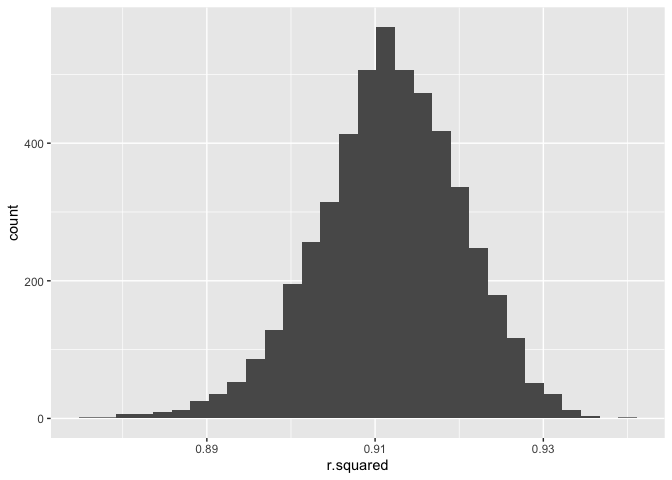
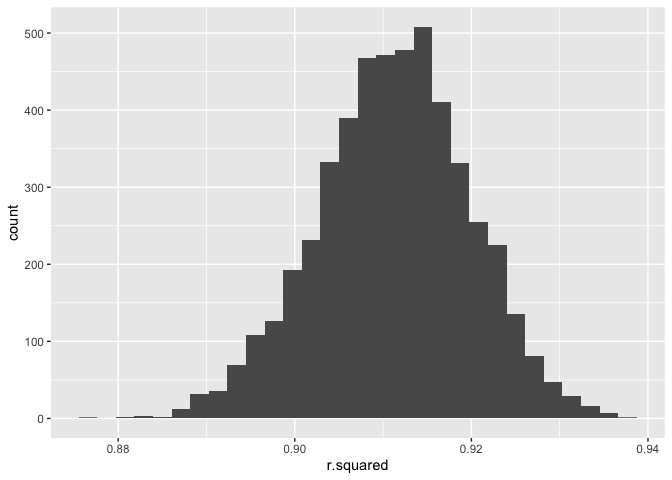
added descriptions for problem 2, named code chunks, and overall final touches

diff --git a/p8105_hw6_lzs2109.md b/p8105_hw6_lzs2109.md
@@ -42,7 +42,7 @@ bweight_df =
 
 ``` r
 map(bweight_df, ~sum(is.na(.))) %>% 
-  as.data.frame() 
+  as.data.frame()
 ```
 
     ##   babysex bhead blength bwt delwt fincome frace gaweeks malform menarche
@@ -50,37 +50,40 @@ map(bweight_df, ~sum(is.na(.))) %>%
     ##   mheight momage mrace parity pnumlbw pnumsga ppbmi ppwt smoken wtgain
     ## 1       0      0     0      0       0       0     0    0      0      0
 
-There appear to be no missing values in the birth weight data set.
-$\\\\$ A possible regression model for birth weight may involve genetic
-factors attributable to the parents as indirect predictors of weight
-instead of direct predictors like the baby’s features (sex, length, head
-circumference, etc). As such, I’ll propose a model that uses the
-predictors delwt (mother’s weight at delivery), malform (presence of
-malformations that could affect weight), ppwt (mother’s pre-pregnancy
-weight), and ppbmi (mother’s pre-pregnancy BMI). Mother’s height might
-be useful to include, but we’ll stick with 4 predictors and try to
-maintain some parsimony. If father’s weight was available, that would
-probably be more interesting than, for example, mother’s BMI to explore.
+There appear to be no missing values in the birth weight data set. A
+possible regression model for birth weight may involve genetic factors
+attributable to the parents as indirect predictors of weight instead of
+direct predictors like the baby’s features (sex, length, head
+circumference, etc). As such, we’ll propose a model that uses the
+variables delwt (mother’s weight at delivery), mheight (the mother’s
+height), ppwt (mother’s pre-pregnancy weight), and ppbmi (mother’s
+pre-pregnancy BMI). If father’s weight, height, or BMI were available,
+they would probably be interesting variables to include as well. This
+proposed model is based solely on hypothesized underlying factors, and
+we’ll use some data-driven info later to see how it could possibly be
+improved.
 
 ``` r
-my_model = 
-  lm(bwt ~ delwt + malform + ppwt + ppbmi, data = bweight_df)
+proposed_model = 
+  lm(bwt ~ delwt + mheight + ppbmi + ppwt, data = bweight_df)
 
 bweight_df %>% 
-  add_residuals(my_model) %>% 
-  add_predictions(my_model) %>%
-  ggplot(aes(x = pred, y= resid)) + 
+  add_residuals(proposed_model) %>% 
+  add_predictions(proposed_model) %>%
+  ggplot(aes(x = pred, y = resid)) + 
     geom_point() + 
     labs(x = "Fitted Values", y = "Residuals")
 ```
 
-![](p8105_hw6_lzs2109_files/figure-gfm/unnamed-chunk-4-1.png)<!-- -->
+![](p8105_hw6_lzs2109_files/figure-gfm/proposed%20model-1.png)<!-- -->
 
 The fitted values versus residuals plot is already showing some
-questionable trends in my proposed model, with the residuals not being
-evenly distributed around 0. We can see that on the positive side the
-residuals top out around just above 1500, but approach 2500 on the
-negative end.
+problematic trends in our proposed model, with the residuals not being
+completely evenly distributed around 0. We can see that on the positive
+side the residuals top out around just above +1500, but approach -2500
+on the negative end. Although they are roughly evenly distributed, there
+are a noticeable amount of points below -1500 for the residuals, with no
+such points above +1500, save for one.
 
 ``` r
 lm(bwt ~ blength + gaweeks, data = bweight_df) %>% 
@@ -118,8 +121,8 @@ broom::tidy()
     ## 7 bhead:babysexfemale          -198.       51.1      -3.88  0.000105    
     ## 8 bhead:blength:babysexfemale     3.88      1.06      3.67  0.000245
 
-The above models are the ones that we will be comparing my proposed
-model to.
+The above given models are the ones that we will be comparing our
+proposed model to.
 
 ``` r
 cv_df = 
@@ -131,20 +134,20 @@ cv_df =
 cv_df = 
   cv_df %>% 
   mutate(
-    my_model  = map(train, ~lm(bwt ~ delwt + malform + ppwt + ppbmi, data = .x)),
-    model_1   = map(train, ~lm(bwt ~ blength + gaweeks, data = .x)),
-    model_2   = map(train, ~lm(bwt ~ bhead + 
-                                     blength + 
-                                     babysex + 
-                                     bhead * blength + 
-                                     blength * babysex + 
-                                     bhead * babysex + 
-                                     bhead * blength * babysex,
-                               data = .x))) %>% 
+    proposed_model  = map(train, ~lm(bwt ~ delwt + mheight + ppbmi + ppwt, data = .x)),
+    model_1         = map(train, ~lm(bwt ~ blength + gaweeks, data = .x)),
+    model_2         = map(train, ~lm(bwt ~ bhead + 
+                                       blength + 
+                                       babysex + 
+                                       bhead * blength + 
+                                       blength * babysex + 
+                                       bhead * babysex + 
+                                       bhead * blength * babysex,
+                                     data = .x))) %>% 
   mutate(
-    rmse_my_model = map2_dbl(my_model, test, ~rmse(model = .x, data = .y)),
-    rmse_model_1  = map2_dbl(model_1, test, ~rmse(model = .x, data = .y)),
-    rmse_model_2  = map2_dbl(model_2, test, ~rmse(model = .x, data = .y)))
+    rmse_proposed_model = map2_dbl(proposed_model, test, ~rmse(model = .x, data = .y)),
+    rmse_model_1        = map2_dbl(model_1, test, ~rmse(model = .x, data = .y)),
+    rmse_model_2        = map2_dbl(model_2, test, ~rmse(model = .x, data = .y)))
 
 cv_df %>% 
   select(starts_with("rmse")) %>% 
@@ -158,37 +161,91 @@ cv_df %>%
   geom_violin()
 ```
 
-![](p8105_hw6_lzs2109_files/figure-gfm/unnamed-chunk-6-1.png)<!-- -->
+![](p8105_hw6_lzs2109_files/figure-gfm/cross%20validation-1.png)<!-- -->
 
 ``` r
 cv_df %>% head()
 ```
 
     ## # A tibble: 6 × 9
-    ##   train                 test  .id   my_model model_1 model_2 rmse_my_model rmse_model_1
-    ##   <list>                <lis> <chr> <list>   <list>  <list>          <dbl>        <dbl>
-    ## 1 <tibble [3,473 × 20]> <tib… 001   <lm>     <lm>    <lm>             488.         323.
-    ## 2 <tibble [3,473 × 20]> <tib… 002   <lm>     <lm>    <lm>             480.         341.
-    ## 3 <tibble [3,473 × 20]> <tib… 003   <lm>     <lm>    <lm>             485.         321.
-    ## 4 <tibble [3,473 × 20]> <tib… 004   <lm>     <lm>    <lm>             496.         337.
-    ## 5 <tibble [3,473 × 20]> <tib… 005   <lm>     <lm>    <lm>             474.         363.
-    ## 6 <tibble [3,473 × 20]> <tib… 006   <lm>     <lm>    <lm>             480.         316.
+    ##   train test  .id   proposed_model model_1 model_2 rmse_proposed_m… rmse_model_1
+    ##   <lis> <lis> <chr> <list>         <list>  <list>             <dbl>        <dbl>
+    ## 1 <tib… <tib… 001   <lm>           <lm>    <lm>                498.         319.
+    ## 2 <tib… <tib… 002   <lm>           <lm>    <lm>                495.         328.
+    ## 3 <tib… <tib… 003   <lm>           <lm>    <lm>                487.         333.
+    ## 4 <tib… <tib… 004   <lm>           <lm>    <lm>                500.         363.
+    ## 5 <tib… <tib… 005   <lm>           <lm>    <lm>                460.         333.
+    ## 6 <tib… <tib… 006   <lm>           <lm>    <lm>                480.         348.
     ## # … with 1 more variable: rmse_model_2 <dbl>
 
-Clearly, from the plot of root mean squared errors from my proposed
-model compared to the two proposed in the homework, my proposed model
-isn’t great. The RMSE is largely between 450 and 500, while this error
-is reduced to between 300 and 375 for the first model, and between 275
-and 325 for the second model with the interaction terms. This does make
-sense being that the model I proposed used indirect measures that may or
-may not be related to and predictors of the baby’s weight, whereas the
-first model used the baby’s actual length and gestational age, which are
-more direct predictors of how much a baby weights. Obviously, the longer
-a baby is, the more they will weigh. The second model also used direct
-features of a baby such as their head circumference, weight, and sex, in
-addition to the interactions between these variables. We can assume that
-the larger a baby’s head is, the longer they are, and that the baby’s
-sex would be more direct predictors of the baby’s weight.
+Clearly, from the plot of root mean squared errors from our proposed
+model compared to the two given in the homework assignment, our proposed
+model isn’t great. The RMSE is largely between 450 and 500, up to 525,
+while this same error measure is reduced to between 300 and 375 for the
+first model, and between 275 and 325 for the second model with the
+interaction terms. This does make sense being that the model we proposed
+used indirect measures that may or may not be related to actual
+predictors of the baby’s weight, whereas the first model used the baby’s
+actual length and gestational age, which are more direct predictors of
+how much a baby weights. Obviously, the longer a baby is, the more they
+will weigh. The second model also used direct features of the baby such
+as their head circumference, weight, and sex, in addition to the
+interactions between these variables. We can reasonably assume that the
+larger a baby’s head is, the longer their body is, and the baby’s sex
+would be more direct predictors of the baby’s weight. Our proposed
+model’s higher error makes sense in retrospect, because if we fit a
+model that includes all variables (below), we can see that of the ones
+we chose in our hypothesized and non-data-driven model, only delwt has a
+p-value below significance level of 0.05. Had we chosen another
+mother-associated non-genetic factor such as smoken (number of
+cigarettes smoked during pregnancy), we would have likely achieved a
+better model.
+
+``` r
+lm(bwt ~ ., data = bweight_df) %>% summary()
+```
+
+    ## 
+    ## Call:
+    ## lm(formula = bwt ~ ., data = bweight_df)
+    ## 
+    ## Residuals:
+    ##      Min       1Q   Median       3Q      Max 
+    ## -1097.68  -184.86    -3.33   173.09  2344.15 
+    ## 
+    ## Coefficients: (3 not defined because of singularities)
+    ##                     Estimate Std. Error t value Pr(>|t|)    
+    ## (Intercept)       -6265.3914   660.4011  -9.487  < 2e-16 ***
+    ## babysexfemale        28.7073     8.4652   3.391 0.000702 ***
+    ## bhead               130.7781     3.4523  37.881  < 2e-16 ***
+    ## blength              74.9536     2.0217  37.075  < 2e-16 ***
+    ## delwt                 4.1007     0.3948  10.386  < 2e-16 ***
+    ## fincome               0.2898     0.1795   1.614 0.106551    
+    ## fraceblack           14.3313    46.1501   0.311 0.756168    
+    ## fraceasian           21.2361    69.2960   0.306 0.759273    
+    ## fracepuerto rican   -46.9962    44.6782  -1.052 0.292912    
+    ## fraceother            4.2969    74.0741   0.058 0.953745    
+    ## gaweeks              11.5494     1.4654   7.882 4.06e-15 ***
+    ## malformpresent        9.7650    70.6259   0.138 0.890039    
+    ## menarche             -3.5508     2.8951  -1.226 0.220083    
+    ## mheight               9.7874    10.3116   0.949 0.342588    
+    ## momage                0.7593     1.2221   0.621 0.534418    
+    ## mraceblack         -151.4354    46.0453  -3.289 0.001014 ** 
+    ## mraceasian          -91.3866    71.9190  -1.271 0.203908    
+    ## mracepuerto rican   -56.4787    45.1369  -1.251 0.210901    
+    ## parity               95.5411    40.4793   2.360 0.018307 *  
+    ## pnumlbw                   NA         NA      NA       NA    
+    ## pnumsga                   NA         NA      NA       NA    
+    ## ppbmi                 4.3538    14.8913   0.292 0.770017    
+    ## ppwt                 -3.4716     2.6121  -1.329 0.183913    
+    ## smoken               -4.8544     0.5871  -8.269  < 2e-16 ***
+    ## wtgain                    NA         NA      NA       NA    
+    ## ---
+    ## Signif. codes:  0 '***' 0.001 '**' 0.01 '*' 0.05 '.' 0.1 ' ' 1
+    ## 
+    ## Residual standard error: 272.5 on 4320 degrees of freedom
+    ## Multiple R-squared:  0.7183, Adjusted R-squared:  0.717 
+    ## F-statistic: 524.6 on 21 and 4320 DF,  p-value: < 2.2e-16
 
 ### Problem 2
 
@@ -216,6 +273,11 @@ weather_df =
 
     ## file min/max dates: 1869-01-01 / 2021-11-30
 
+Loaded the data in above, and below we will do 5000 bootstrap samples
+and estimates for *r̂*<sup>2</sup> and
+log(*β̂*<sub>0</sub> \* *β̂*<sub>1</sub>). Then, we’ll plot the
+distribution of the estimates and describe them.
+
 ``` r
 weather_bootstraps = 
   weather_df %>% 
@@ -234,7 +296,12 @@ weather_bootstraps %>%
 
     ## `stat_bin()` using `bins = 30`. Pick better value with `binwidth`.
 
-![](p8105_hw6_lzs2109_files/figure-gfm/unnamed-chunk-8-1.png)<!-- -->
+![](p8105_hw6_lzs2109_files/figure-gfm/bootstraps%20and%20plots-1.png)<!-- -->
+
+The distribution of our 5000 bootstrap estimates for *r̂*<sup>2</sup>
+appears to follow a fairly normal distribution, with a bit of a tail on
+the lower end of the *r̂*<sup>2</sup> values. The distribution appears to
+be centered around an *r̂*<sup>2</sup> value of 0.915.
 
 ``` r
 weather_bootstraps %>% 
@@ -249,13 +316,21 @@ weather_bootstraps %>%
 
     ## `stat_bin()` using `bins = 30`. Pick better value with `binwidth`.
 
-![](p8105_hw6_lzs2109_files/figure-gfm/unnamed-chunk-8-2.png)<!-- -->
+![](p8105_hw6_lzs2109_files/figure-gfm/plots%202-1.png)<!-- -->
+
+The distribution of our 5000 bootstrap estimates for
+log(*β̂*<sub>0</sub> \* *β̂*<sub>1</sub>) also appears to follow a fairly
+normal distribution, similar to the *r̂*<sup>2</sup> values. The
+log(*β̂*<sub>0</sub> \* *β̂*<sub>1</sub>) distribution looks to be
+centered around a value of 0.875.
 
 ``` r
-weather_bootstraps %>% 
+rsquared_ci = 
+  weather_bootstraps %>% 
   unnest(results_brglance) %>% 
   summarize(ci_lower = quantile(r.squared, 0.025), 
             ci_upper = quantile(r.squared, 0.975))
+rsquared_ci
 ```
 
     ## # A tibble: 1 × 2
@@ -264,7 +339,8 @@ weather_bootstraps %>%
     ## 1    0.894    0.927
 
 ``` r
-weather_bootstraps %>% 
+logbeta_ci = 
+  weather_bootstraps %>% 
   unnest(results_brtidy) %>% 
   select(.id, term, estimate) %>% 
   pivot_wider(names_from = term, values_from = estimate) %>% 
@@ -272,9 +348,19 @@ weather_bootstraps %>%
   mutate(log = log10(intercept * tmin)) %>% 
   summarize(ci_lower = quantile(log, 0.025), 
             ci_upper = quantile(log, 0.975))
+logbeta_ci
 ```
 
     ## # A tibble: 1 × 2
     ##   ci_lower ci_upper
     ##      <dbl>    <dbl>
-    ## 1    0.853    0.894
+    ## 1    0.853    0.895
+
+Above, we produced 95% confidence intervals for our bootstrapped
+estimates of *r̂*<sup>2</sup> and
+log(*β̂*<sub>0</sub> \* *β̂*<sub>1</sub>). The 95% confidence interval for
+*r̂*<sup>2</sup> is 0.894, 0.927 and for
+log(*β̂*<sub>0</sub> \* *β̂*<sub>1</sub>), the 95% confidence interval is
+0.853, 0.895. We can say with 95% confidence that the true population
+parameter lies between these upper and lower bounds for both of these
+measures.
